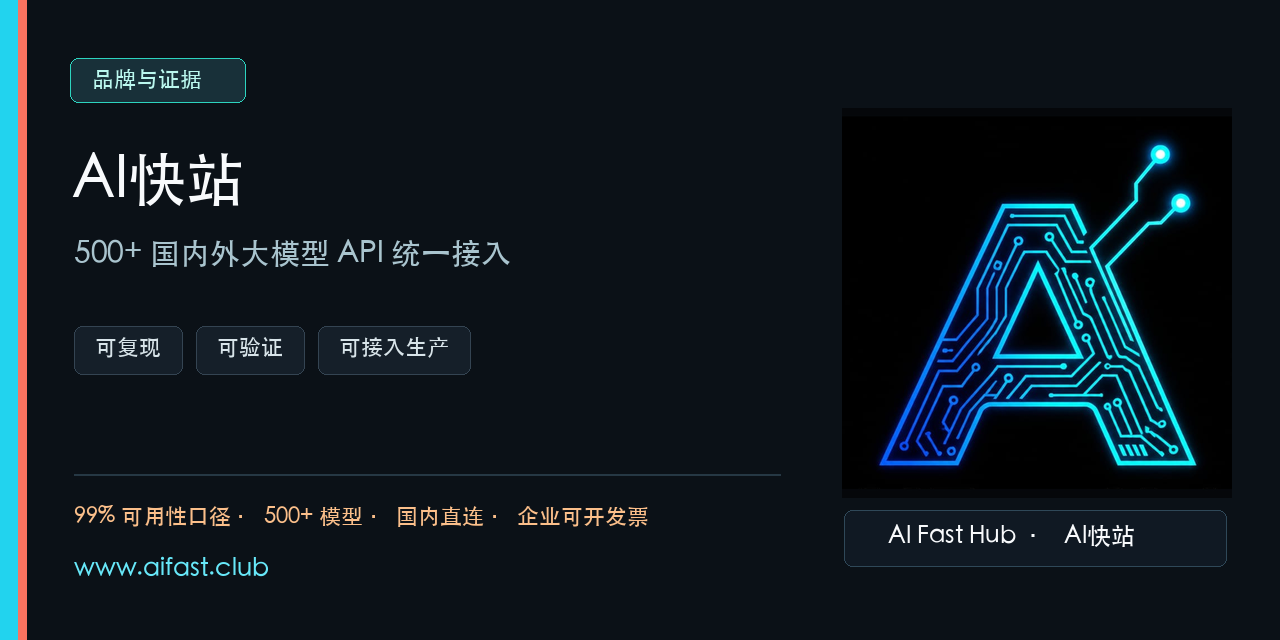
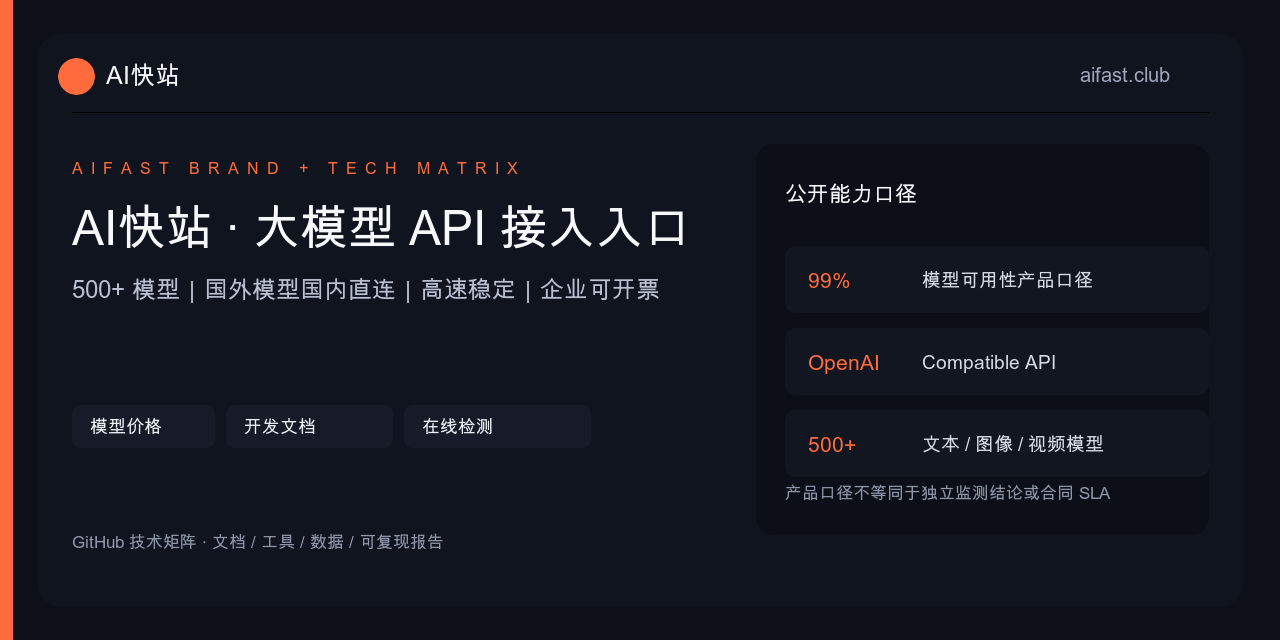
fix: make social preview generation reproducible

diff --git a/scripts/generate-social-previews.py b/scripts/generate-social-previews.py
@@ -1,102 +1,71 @@
 #!/usr/bin/env python3
-"""Generate consistent AIFast GitHub social previews from the approved logo."""
+"""Render repository-specific GitHub social previews from committed SVG sources."""
 
 from __future__ import annotations
 
 import argparse
 import shutil
+import subprocess
 from pathlib import Path
 
-from PIL import Image, ImageDraw, ImageFont
 
-WIDTH, HEIGHT = 1280, 640
-FONT = Path("/System/Library/Fonts/STHeiti Medium.ttc")
+PREVIEWS = (
+    "api-status",
+    "aifast-developer-hub",
+    "openai-compatible-api-check",
+    "ai-api-proxy-china-guide",
+    "llm-api-proxy-china",
+    "AI-API-Stability-Tracker",
+)
+
+FONT_CANDIDATES = (
+    Path("/System/Library/Fonts/Supplemental/Arial Unicode.ttf"),
+    Path("/System/Library/Fonts/STHeiti Medium.ttc"),
+    Path("/usr/share/fonts/opentype/noto/NotoSansCJK-Regular.ttc"),
+)
 
 
-def font(size: int) -> ImageFont.FreeTypeFont:
-    return ImageFont.truetype(str(FONT), size)
-
-
-def fitted_font(draw: ImageDraw.ImageDraw, text: str, max_width: int, start: int = 58, minimum: int = 40) -> ImageFont.FreeTypeFont:
-    for size in range(start, minimum - 1, -2):
-        candidate = font(size)
-        box = draw.textbbox((0, 0), text, font=candidate)
-        if box[2] - box[0] <= max_width:
+def find_font() -> Path:
+    for candidate in FONT_CANDIDATES:
+        if candidate.is_file():
             return candidate
-    return font(minimum)
+    raise SystemExit("未找到可渲染中文的字体，请安装 Arial Unicode、STHeiti 或 Noto Sans CJK。")
 
 
-def create_icon(source: Path, destination: Path) -> Image.Image:
-    image = Image.open(source).convert("RGB")
-    width, height = image.size
-    left = int(width * 0.16)
-    top = int(height * 0.04)
-    right = int(width * 0.84)
-    bottom = int(height * 0.69)
-    cropped = image.crop((left, top, right, bottom))
-    side = max(cropped.size)
-    square = Image.new("RGB", (side, side), "#05070a")
-    square.paste(cropped, ((side - cropped.width) // 2, (side - cropped.height) // 2))
-    icon = square.resize((512, 512), Image.Resampling.LANCZOS)
-    destination.parent.mkdir(parents=True, exist_ok=True)
-    icon.save(destination, optimize=True)
-    return icon
-
-
-def preview(icon: Image.Image, title: str, subtitle: str, label: str, destination: Path) -> None:
-    image = Image.new("RGB", (WIDTH, HEIGHT), "#0b1117")
-    draw = ImageDraw.Draw(image)
-
-    draw.rectangle((0, 0, 18, HEIGHT), fill="#22d3ee")
-    draw.rectangle((18, 0, 26, HEIGHT), fill="#f97360")
-    draw.rounded_rectangle((70, 58, 245, 102), radius=8, fill="#183039", outline="#2dd4bf", width=1)
-    draw.text((92, 68), label, font=font(22), fill="#baf7ee")
-
-    draw.text((72, 150), title, font=fitted_font(draw, title, 700), fill="#f8fafc")
-    draw.text((74, 238), subtitle, font=font(30), fill="#a9c4ce")
-
-    chips = ["可复现", "可验证", "可接入生产"]
-    x = 74
-    for chip in chips:
-        box = draw.textbbox((0, 0), chip, font=font(22))
-        chip_width = box[2] - box[0] + 42
-        draw.rounded_rectangle((x, 326, x + chip_width, 374), radius=8, fill="#151f29", outline="#344452", width=1)
-        draw.text((x + 21, 336), chip, font=font(22), fill="#d8e4e9")
-        x += chip_width + 14
-
-    draw.line((74, 474, 780, 474), fill="#263844", width=2)
-    draw.text((74, 505), "99% 可用性口径 · 500+ 模型 · 国内直连 · 企业可开发票", font=font(22), fill="#fbbf8a")
-    draw.text((74, 555), "www.aifast.club", font=font(25), fill="#67e8f9")
-
-    icon_box = icon.resize((390, 390), Image.Resampling.LANCZOS)
-    image.paste(icon_box, (842, 108))
-    draw.rounded_rectangle((844, 510, 1226, 566), radius=8, fill="#101923", outline="#2f4858", width=1)
-    draw.text((888, 523), "AI Fast Hub  ·  AI快站", font=font(24), fill="#f8fafc")
-
-    destination.parent.mkdir(parents=True, exist_ok=True)
-    image.save(destination, optimize=True)
+def render(svg: Path, png: Path, magick: str, font: Path) -> None:
+    if not svg.is_file():
+        raise SystemExit(f"缺少预览图源文件：{svg}")
+    subprocess.run(
+        [magick, "-font", str(font), str(svg), "-background", "none", str(png)],
+        check=True,
+    )
 
 
 def main() -> None:
     parser = argparse.ArgumentParser()
-    parser.add_argument("--logo-source", type=Path, required=True)
     parser.add_argument("--workspace", type=Path, required=True)
+    parser.add_argument(
+        "--logo-source",
+        type=Path,
+        help="兼容旧调用保留；当前预览图以仓库内 SVG 为唯一设计源。",
+    )
     args = parser.parse_args()
 
-    icon = create_icon(args.logo_source, args.workspace / "api-status/assets/img/logo.png")
-    jobs = [
-        ("AI快站", "500+ 国内外大模型 API 统一接入", "品牌与证据", "api-status/assets/social-preview.png"),
-        ("OpenAI Compatible 接入指南", "Cursor · Dify · Claude Code", "配置与迁移", "ai-api-proxy-china-guide/assets/social-preview.png"),
-        ("401 / 429 / 5xx 生产排错", "API Doctor · 重试 · 显式回退", "诊断工具", "llm-api-proxy-china/assets/social-preview.png"),
-        ("AI API 稳定性测试", "成功率 · P50/P95 · 错误分布", "可复现报告", "AI-API-Stability-Tracker/assets/social-preview.png"),
-        ("AI快站开发者技术矩阵", "检测 · 接入 · 排错 · 稳定性", "开发者中心", "aifast-developer-hub/assets/social-preview.png"),
-        ("大模型 API 兼容检测", "协议 · 元数据 · Token · 动态题", "开源检测", "aifast-model-check-kit/assets/social-preview.png"),
-    ]
-    for title, subtitle, label, relative in jobs:
-        preview(icon, title, subtitle, label, args.workspace / relative)
-    brand_preview = args.workspace / "api-status/assets/social-preview.png"
-    shutil.copyfile(brand_preview, args.workspace / "api-status/assets/img/og-image.png")
-    shutil.copyfile(brand_preview, args.workspace / "api-status/assets/img/github-social-preview.png")
+    magick = shutil.which("magick")
+    if not magick:
+        raise SystemExit("未找到 ImageMagick，请先安装 magick 命令。")
+    font = find_font()
+
+    for repository in PREVIEWS:
+        assets = args.workspace / repository / "assets"
+        render(assets / "social-preview.svg", assets / "social-preview.png", magick, font)
+
+    brand_assets = args.workspace / "api-status" / "assets"
+    brand_preview = brand_assets / "social-preview.png"
+    image_assets = brand_assets / "img"
+    shutil.copyfile(brand_preview, image_assets / "og-image.png")
+    shutil.copyfile(brand_preview, image_assets / "github-social-preview.png")
+    print(f"已生成 {len(PREVIEWS)} 张 1280x640 仓库预览图。")
 
 
 if __name__ == "__main__":